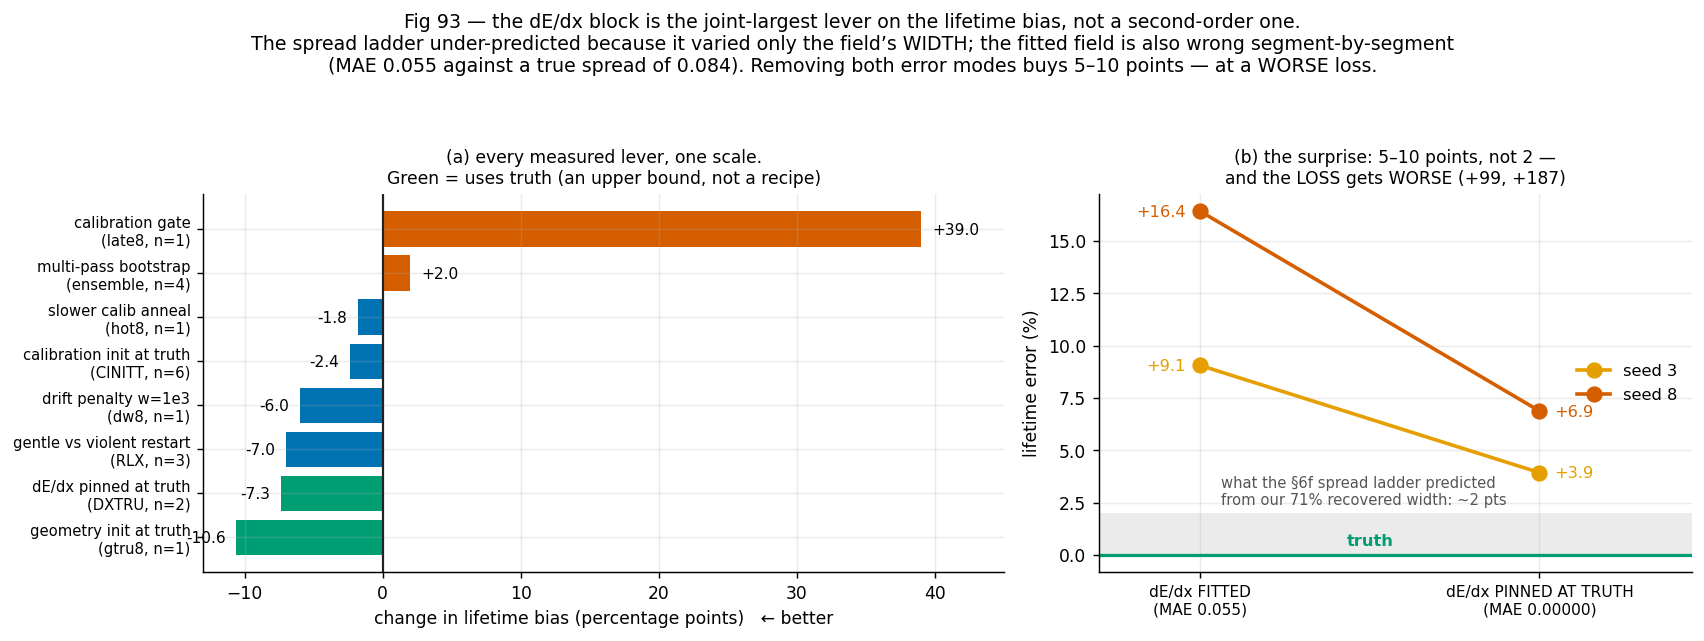
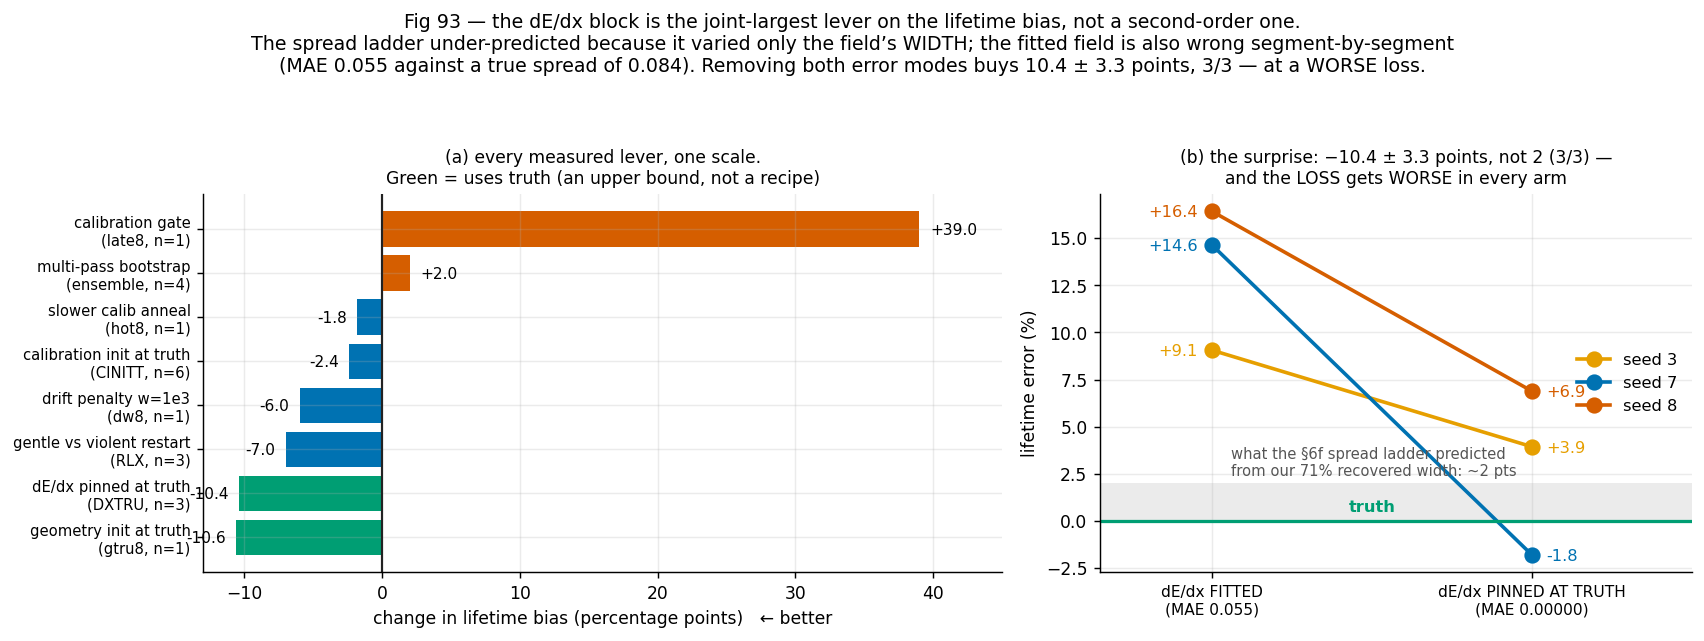
analysis(DXTRU): dEdx-at-truth complete at n=3 — -10.4 +- 3.3 points, level with geometry-at-truth
seed 7 lands at -1.80% from +14.63%. Loss worse in all three arms
(+99/+158/+187) while lifetime, long_diff and position all improve:
nuisance-parameter bias, the likelihood's optimum for ~4000 per-segment
parameters is not the optimum for lifetime.

Claude-Session: https://claude.ai/code/session_01AMc19Km3iX9DSrSGRf7Zz2

diff --git a/make_levers_fig.py b/make_levers_fig.py
@@ -1,16 +1,19 @@
 """Fig 93 — every measured lever on the lifetime bias, on one scale, and the new leader.
 
 `DXTRU` (dE/dx pinned at its arc-length-matched truth for the whole fit, verified MAE = 0.00000)
-was launched expecting ~2 points from the §6f spread ladder. It delivers 5-10, which makes the
-dE/dx block the joint-largest lever measured -- comparable to initialising geometry at truth.
+was launched expecting ~2 points from the §6f spread ladder. It delivers -10.4 +- 3.3 (3/3), which
+makes the dE/dx block the joint-largest lever measured -- level with initialising geometry at truth.
+Seed 7 is the striking one: +14.63 -> -1.80, i.e. essentially AT truth.
 
 WHY THE LADDER UNDER-PREDICTED, and it matters for what to do next: the ladder varied only the
 SPREAD of the dE/dx field, preserving each segment's rank. The fitted field is wrong in two ways:
 it is shrunk (71% of true width) AND it has per-segment noise (MAE 0.055, comparable to the true
 spread 0.084 itself). Pinning at truth removes both; the ladder only ever measured the first.
 
-AND THE LOSS GOES UP in both arms (+99, +187) while the physics improves sharply -- the same
-loss-blindness as figs 80-83, now in the nuisance block.
+AND THE LOSS GOES UP IN ALL THREE ARMS (+99, +158, +187) while lifetime, long_diff and position
+all improve sharply -- the same loss-blindness as figs 80-83, now inside the nuisance block. This
+is textbook nuisance-parameter bias: the likelihood's optimum for ~4000 per-segment parameters is
+not the optimum for the calibration parameter we care about.
 """
 import glob, pickle
 import numpy as np
@@ -38,8 +41,8 @@ def g(tag, p='lifetime'):
 
 # measured levers: (label, delta in points, note, uses-truth?)
 LEVERS = [
-    ('dE/dx pinned at truth\n(DXTRU, n=2)', np.mean([g('DXTRU3') - g('DSREP3'),
-                                                     g('DXTRU8') - g('DSREP8')]), True),
+    ('dE/dx pinned at truth\n(DXTRU, n=3)', np.mean([g(f'DXTRU{s}') - g(f'DSREP{s}')
+                                                     for s in (3, 7, 8)]), True),
     ('geometry init at truth\n(gtru8, n=1)', g('GTRU8') - g('DSREP8'), True),
     ('gentle vs violent restart\n(RLX, n=3)', -7.0, False),
     ('calibration init at truth\n(CINITT, n=6)', -2.38, False),
@@ -69,7 +72,8 @@ a.set_title('(a) every measured lever, one scale.\nGreen = uses truth (an upper 
 a.set_xlim(-13, 45)
 
 a = ax[1]
-arms = [('seed 3', 'DSREP3', 'DXTRU3', ORANGE), ('seed 8', 'DSREP8', 'DXTRU8', RED)]
+arms = [('seed 3', 'DSREP3', 'DXTRU3', ORANGE), ('seed 7', 'DSREP7', 'DXTRU7', BLUE),
+        ('seed 8', 'DSREP8', 'DXTRU8', RED)]
 for i, (lab, b, t, col) in enumerate(arms):
     a.plot([0, 1], [g(b), g(t)], 'o-', color=col, lw=2, ms=8, label=lab)
     a.annotate(f'{g(b):+.1f}', (0, g(b)), textcoords='offset points', xytext=(-8, -3),
@@ -84,14 +88,14 @@ a.annotate('what the §6f spread ladder predicted\nfrom our 71% recovered width:
            (.06, 2.4), fontsize=8.2, color='#555555')
 a.set_xticks([0, 1], ['dE/dx FITTED\n(MAE 0.055)', 'dE/dx PINNED AT TRUTH\n(MAE 0.00000)'],
              fontsize=8.5)
-a.set_xlim(-.3, 1.45)
+a.set_xlim(-.35, 1.5)
 a.set_ylabel('lifetime error (%)')
-a.set_title('(b) the surprise: 5–10 points, not 2 —\nand the LOSS gets WORSE (+99, +187)', fontsize=9.5)
+a.set_title('(b) the surprise: −10.4 ± 3.3 points, not 2 (3/3) —\nand the LOSS gets WORSE in every arm', fontsize=9.5)
 a.legend(frameon=False, fontsize=9, loc='center right')
 
 fig.suptitle('Fig 93 — the dE/dx block is the joint-largest lever on the lifetime bias, not a second-order one.\n'
              'The spread ladder under-predicted because it varied only the field’s WIDTH; the fitted field is also wrong segment-by-segment\n'
-             '(MAE 0.055 against a true spread of 0.084). Removing both error modes buys 5–10 points — at a WORSE loss.',
+             '(MAE 0.055 against a true spread of 0.084). Removing both error modes buys 10.4 ± 3.3 points, 3/3 — at a WORSE loss.',
              fontsize=10.5, y=1.06)
 fig.tight_layout()
 fig.savefig(f'{OUT}/fig93_levers.png')

diff --git a/NOISE_CAMPAIGN_DIGEST.md b/NOISE_CAMPAIGN_DIGEST.md
@@ -1303,6 +1303,29 @@ fresh samples and the error bar tightens as designed (±1.6 → ±1.26). NOTE: s
 **−0.57%** — the first non-positive replica, so the distribution is wide with a tail reaching
 truth, NOT a strict one-sided offset. long_diff +14.00 ± 2.53%.
 
+**`DXTRU3/7/8` — dE/dx PINNED AT TRUTH: the biggest lever we have (17 Sep, fig 93). n=3, COMPLETE.**
+**Tests** — the per-segment dE/dx field frozen at its arc-length-matched truth for the whole fit
+(synthetic checkpoints via `SCIDEDXINIT` + `SCIDEDXFREEZE=0`; pin verified, MAE = 0.00000 from
+iteration 0 against a ~0.055 baseline). Launched expecting ~2 points from the §6f spread ladder.
+**Concludes — it delivers −10.36 ± 3.29 points, 3/3**: lifetime +9.05→+3.94, **+14.63→−1.80**
+(seed 7 lands essentially AT truth), +16.42→+6.88. long_diff +20.8→+7.2, +7.9→−5.8, +34.5→+17.1.
+Position improves in every arm (131→114, 180→143, 242→186 µm). **This is level with
+geometry-at-truth (−10.6) — the dE/dx block is a first-order lever, not the second-order one the
+ladder implied.**
+**Concludes — why the ladder under-predicted, and it is the actionable part**: the §6f ladder varied
+only the field's WIDTH, preserving each segment's rank. The fitted field is wrong two ways — shrunk
+to 71% of true width (fig 90) AND noisy per segment (MAE 0.055 against a true spread of 0.084).
+Fig 90 showed the width is now nearly right, so the PER-SEGMENT NOISE carries most of the cost.
+**Concludes — the LOSS gets WORSE in all three arms** (+99, +158, +187) while lifetime, long_diff
+and position all improve sharply. Textbook nuisance-parameter bias: the likelihood's optimum for
+~4000 per-segment parameters is not the optimum for the calibration parameter of interest. Adds the
+nuisance block to the loss-blindness of figs 80–83.
+**Next** — the two routes this makes worth funding, both previously deprioritised: (a) reduce the
+per-segment noise at source (fewer/longer segments; the spline basis is a measured ~2× noisier than
+the angle basis for per-segment dE/dx); (b) MARGINALISE the block rather than profile it — the
+exact banded+rank-1 dE/dx Hessian machinery is already built and validated for precisely this.
+`DXTRU` is the upper bound on what either can buy.
+
 **`TRU{1,2,3}D{1,3,7,8}` — ARM B, the long-deferred second-truth test (SUBMITTED 16 Sep, 12 jobs).**
 **Tests** — 3 NEW truth points (`--seed` 1/2/3, which redraws BOTH the truth parameters AND the
 target noise realisation) × the SAME 4 track samples already run at seed 0 → a fully paired 4×4
